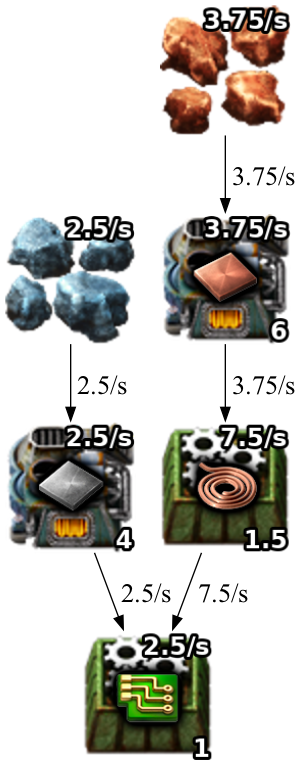
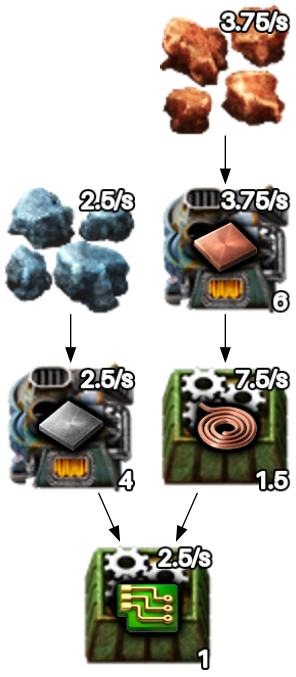
Bundled font, two module slots, unlabeled single-consumer arrows
- Back to Pillow's bundled font (no matplotlib); a thin white stroke over
  the black outline restores the bold look of the original text
- Primary and secondary module dropdowns with a per-machine secondary count,
  so mixed loadouts like 3 productivity + 1 speed are possible
- Arrows from an ingredient with a single consumer carry no rate label; the
  icon already shows that number
- requirements.txt trimmed to ipykernel, ipywidgets, graphviz, slpp, pillow

diff --git a/README.md b/README.md
@@ -6,7 +6,7 @@ Diagrams of the items per second and machines required to make a product in Fact
 
 ![Chemical science pack production graph](examples/chemical-science-pack.png)
 
-Each node shows the product on top of the machine that makes it. The number in the top right is the production rate in items per second and the number in the bottom right is how many machines are needed. Items declared as raw materials are drawn without a machine, since they are supplied from outside the module. Each arrow is labeled with the items per second flowing from an ingredient to the product that consumes it.
+Each node shows the product on top of the machine that makes it. The number in the top right is the production rate in items per second and the number in the bottom right is how many machines are needed. Items declared as raw materials are drawn without a machine, since they are supplied from outside the module. When an ingredient feeds more than one product, each arrow is labeled with the items per second flowing along it. An ingredient with a single consumer leaves the arrow unlabeled, since its icon already shows that rate.
 
 ![Electronic circuit production graph](examples/electronic-circuit.png)
 
@@ -18,7 +18,7 @@ The whole tool is the notebook `factorio_modular_designer.ipynb`, laid out as tw
 2. Fill in **Design** and run it: product, items per second, assembler and furnace tiers, modules, and an option to draw every science pack at once. The diagram appears under the cell and is saved to `output/`.
 3. Raw materials are chosen in a searchable picker under the Design cell. Type to search, press Enter to add, click a tag to remove, and the diagram redraws on each change.
 
-Modules fill every slot of each machine. Productivity modules are only applied to recipes the game allows them on, using the `allow_productivity` flag in the recipe data; other recipes run without modules.
+Two module dropdowns cover mixed loadouts: the secondary module takes its count of slots in each machine and the primary module fills the rest, so "productivity 3 primary, speed 3 secondary, count 1" means three productivity and one speed module in an assembling machine 3. Productivity modules are only applied to recipes the game allows them on, using the `allow_productivity` flag in the recipe data; those slots stay empty elsewhere.
 
 To run it locally instead:
 
